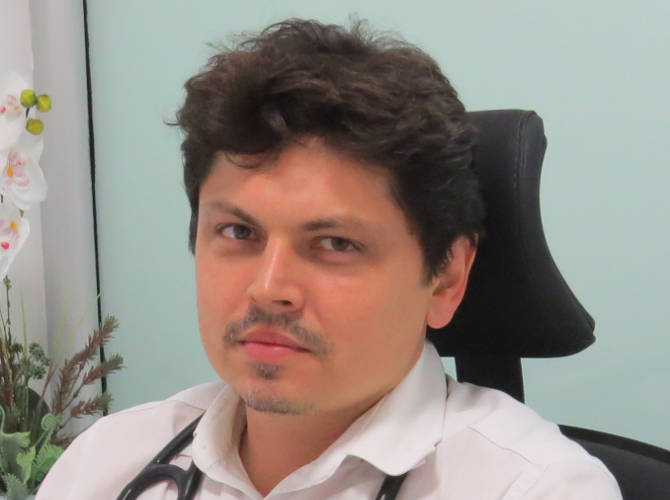
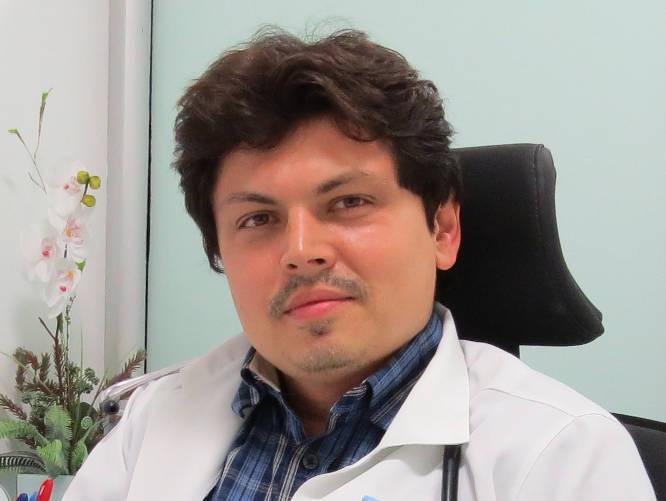
Doctors photos

diff --git a/equipe-medica.html b/equipe-medica.html
@@ -183,7 +183,7 @@
             <div class="col-lg-3 col-md-6 col-sm-6 text-center">
                 <div class="common-doctor clearfix">
                     <figure>
-                        <img src="images/doctor.png" alt="Doutor 3"/>
+                        <img src="images/medicos/eduardo.jpg" alt="Doutor 3"/>
                     </figure>
                     <div class="text-content">
                         <h5>Dr. Eduardo Ayremoraes</h5>
@@ -243,7 +243,7 @@
             <div class="col-lg-3 col-md-6 col-sm-6 text-center">
                 <div class="common-doctor clearfix">
                     <figure>
-                        <img src="images/doctor.png" alt="Doutor 6"/>
+                        <img src="images/medicos/irapua.jpg" alt="Doutor 6"/>
                     </figure>
                     <div class="text-content">
                         <h5>Dr. Irapuá Ferreira</h5>
@@ -405,7 +405,7 @@
             <div class="col-lg-3 col-md-6 col-sm-6 text-center">
                 <div class="common-doctor animated fadeInUp clearfix">
                     <figure>
-                        <img src="images/doctor.png" alt="Doutor 14"/>
+                        <img src="images/medicos/nilo.jpg" alt="Doutor 14"/>
                     </figure>
                     <div class="text-content">
                         <h5>Dr. Nilo Macedo</h5>
@@ -426,7 +426,7 @@
             <div class="col-lg-3 col-md-6 col-sm-6 text-center">
                 <div class="common-doctor animated fadeInUp clearfix">
                     <figure>
-                        <img src="images/doctor.png" alt="Doutor 15"/>
+                        <img src="images/medicos/orlando.jpg" alt="Doutor 15"/>
                     </figure>
                     <div class="text-content">
                         <h5>Dr. Orlando Irapuan</h5>
